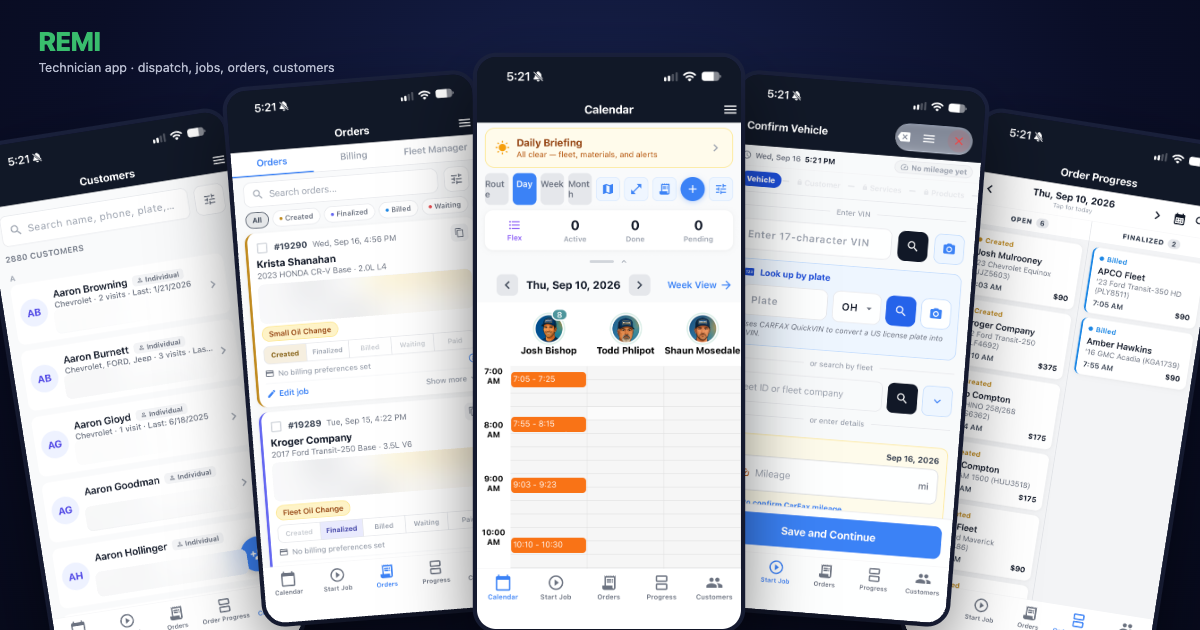
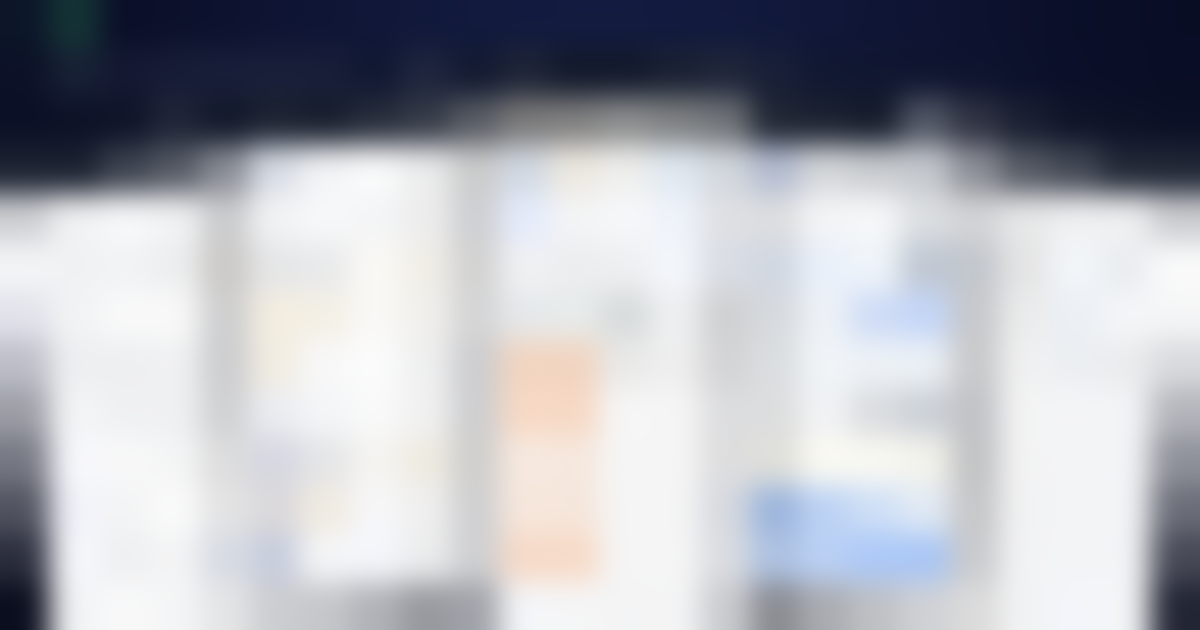
Blur REMI image and hide it from the site entirely
- Replace the REMI card/OG screenshots with a heavily blurred version
  (kept at the same paths, just illegible now)
- Exclude the REMI entry from every project listing endpoint (paginated
  list, total count, and the `all` feed used by the terminal and the
  scroll screenshot animation) while keeping its data in the source
- Remove REMI from sitemap.xml so it's not advertised to crawlers
- Make /case-study/remi return a real server-side 404 via notFound(),
  and drop it from the case-study metadata map

diff --git a/src/pages/api/projects.js b/src/pages/api/projects.js
@@ -24,6 +24,10 @@ export default function handler(req, res) {
 		},
 		{
 			slug: 'remi',
+			// Kept for the record but pulled from every public listing, the slug
+			// lookup and the case-study route (see the layout's notFound() guard).
+			// The stored image is blurred, not the original screenshot.
+			hidden: true,
 			title: 'REMI',
 			snippet:
 				'A single Expo/React Native app for a mobile oil change franchise: dispatch calendar, guided job flow, orders, inventory and payments.',
@@ -262,31 +266,38 @@ export default function handler(req, res) {
 		// },
 	];
 
+	// Projects flagged `hidden` are excluded from every public listing, the
+	// slug lookup and the `all` feed below — the record stays in the array
+	// above so nothing is lost, it's just not reachable from the site.
+	const visibleProjects = projects.filter((p) => !p.hidden);
+
 	// For pagination if needed
-	const total = projects.length;
+	const total = visibleProjects.length;
 	const page = req.query.page || 1;
 	const startIndex = (page - 1) * 3;
 	const endIndex = page * 3;
-	const results = projects.slice(startIndex, endIndex);
+	const results = visibleProjects.slice(startIndex, endIndex);
 
 	// Shared full list for the terminal and the live screenshot transition.
 	if (req.query.all) {
 		return res.status(200).json({
 			total,
-			results: projects.map(({ slug, title, snippet, image, github, app }) => ({
-				slug,
-				title,
-				snippet,
-				image,
-				github,
-				app,
-			})),
+			results: visibleProjects.map(
+				({ slug, title, snippet, image, github, app }) => ({
+					slug,
+					title,
+					snippet,
+					image,
+					github,
+					app,
+				})
+			),
 		});
 	}
 
 	// You can now easily find a project by slug using Array.find()
 	if (req.query.slug) {
-		const project = projects.find((p) => p.slug === req.query.slug);
+		const project = visibleProjects.find((p) => p.slug === req.query.slug);
 		return res.status(200).json(project || null);
 	}
 

diff --git a/src/app/case-study/[slug]/layout.js b/src/app/case-study/[slug]/layout.js
@@ -1,4 +1,11 @@
-// Project data for metadata generation
+import { notFound } from 'next/navigation';
+
+// Slugs that must not be reachable at /case-study/<slug>, by direct URL or
+// otherwise. The route 404s below before anything for these slugs renders.
+const HIDDEN_SLUGS = new Set(['remi']);
+
+// Project data for metadata generation. Hidden slugs are intentionally
+// omitted here too, so a hit on this map alone already reads as not found.
 const projects = {
 	'phone-case-store': {
 		title: 'Phone Case Store',
@@ -11,12 +18,6 @@ const projects = {
 		description:
 			'A tiny, free macOS menu bar app that converts images between PNG, JPEG, WebP, HEIC and more with one drop.',
 		image: '/og-imagedrop.png',
-	},
-	remi: {
-		title: 'REMI',
-		description:
-			'A single Expo/React Native app for a mobile oil change franchise: dispatch calendar, guided job flow, orders, inventory and payments.',
-		image: '/og-remi.png',
 	},
 	'dating-tool-app': {
 		title: 'Dating Tool App',
@@ -134,6 +135,7 @@ export async function generateMetadata({ params }) {
 	if (!project) {
 		return {
 			title: 'Project Not Found | Jace Galloway',
+			robots: { index: false, follow: false },
 		};
 	}
 
@@ -177,6 +179,12 @@ export async function generateMetadata({ params }) {
 	};
 }
 
-export default function CaseStudyLayout({ children }) {
+export default async function CaseStudyLayout({ children, params }) {
+	const { slug } = await params;
+	// Server-side, before anything renders: a direct hit on a hidden slug's
+	// URL gets a real 404 response, not just a client-rendered "not found".
+	if (HIDDEN_SLUGS.has(slug)) {
+		notFound();
+	}
 	return <>{children}</>;
 }

diff --git a/src/app/sitemap.js b/src/app/sitemap.js
@@ -10,7 +10,7 @@ export default async function sitemap() {
 	const projects = [
 		{ slug: 'phone-case-store' },
 		{ slug: 'imagedrop' },
-		{ slug: 'remi' },
+		// 'remi' is deliberately left out: the case study is hidden.
 		{ slug: 'dating-tool-app' },
 		{ slug: 'react-learning-stories' },
 		{ slug: 'the-vegan-aisle' },
